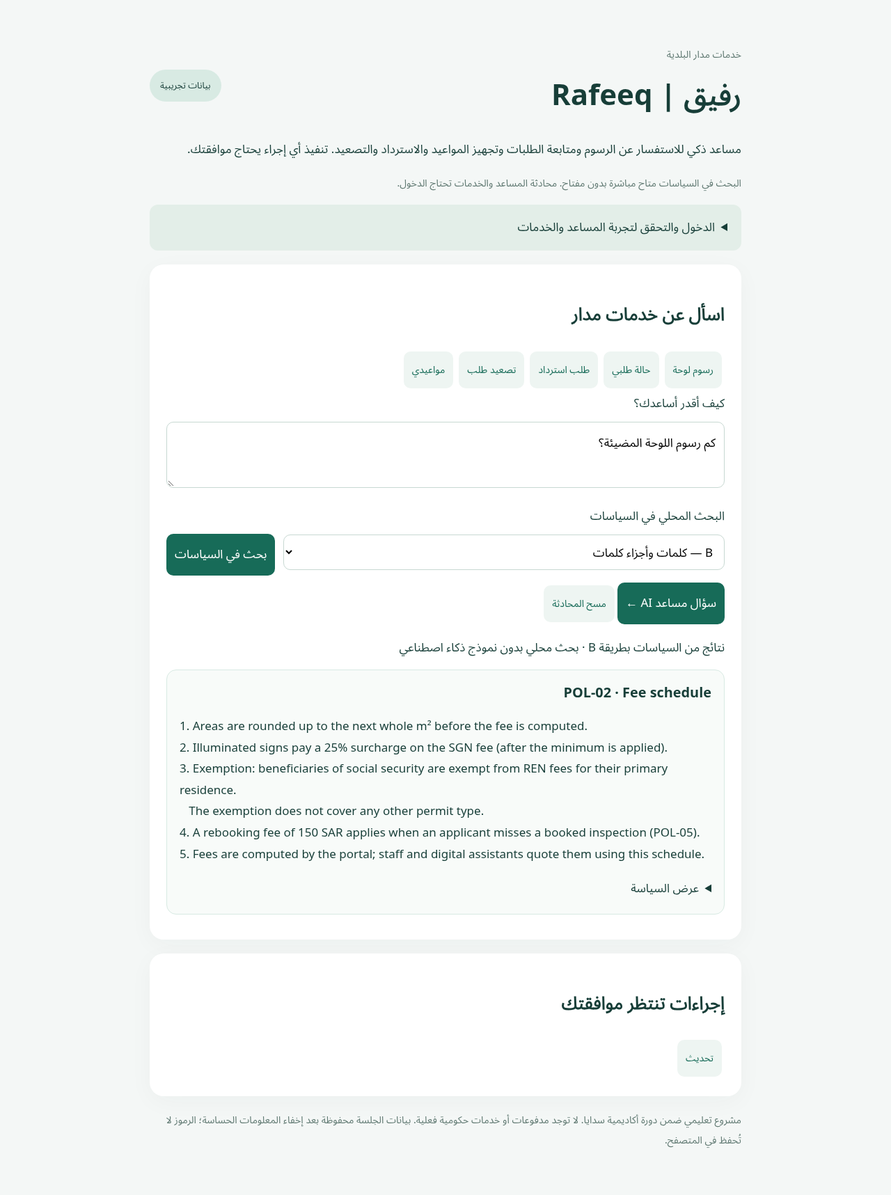
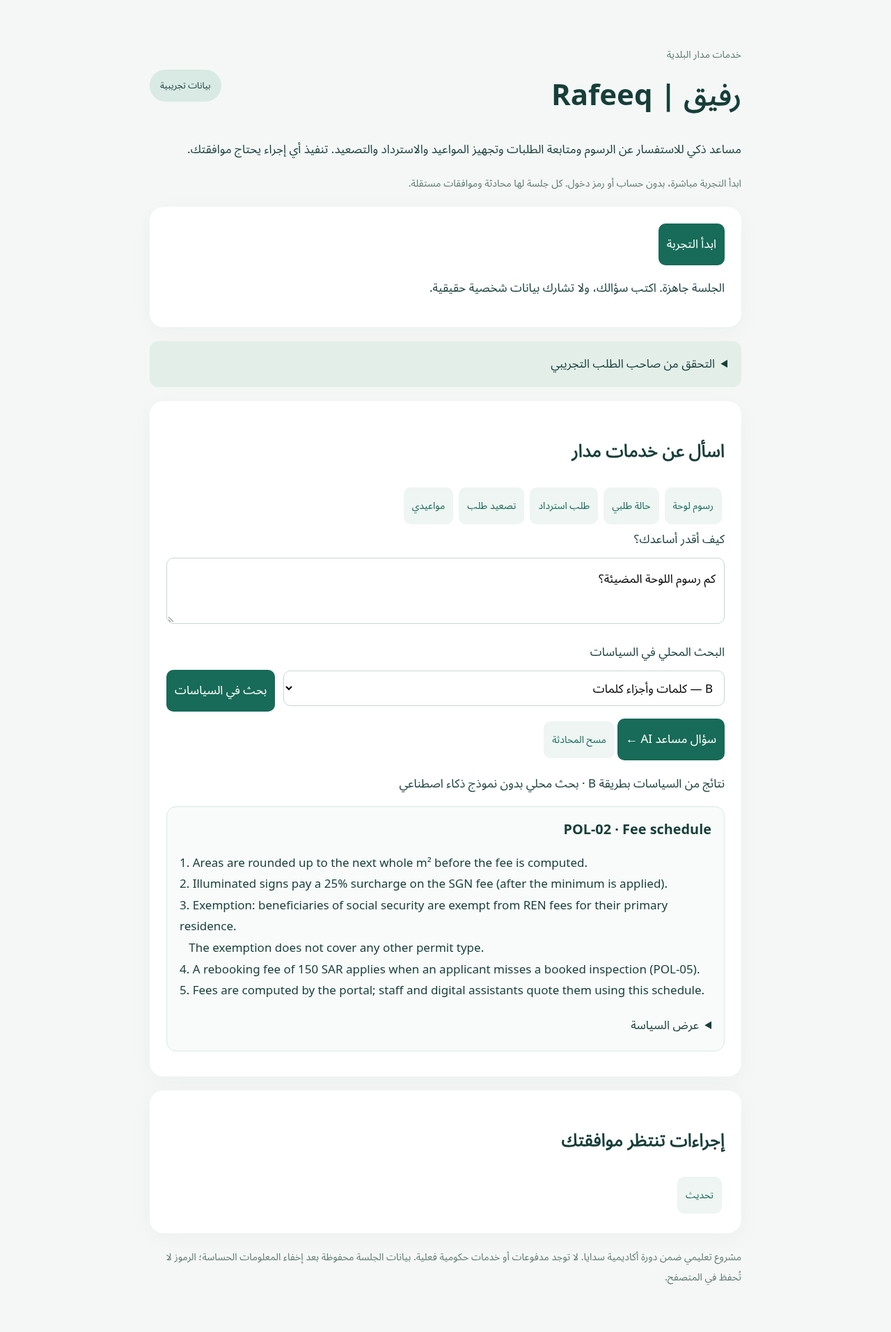
Open isolated no-password visitor sessions and refresh public demo documentation

diff --git a/rafeeq/index.html b/rafeeq/index.html
@@ -10,9 +10,9 @@ body{margin:0;background:#f4f7f6;color:#173e38;font:17px system-ui}main{max-widt
 <body><main>
 <header><div><small>خدمات مدار البلدية</small><h1>رفيق | Rafeeq</h1></div><span class="badge">بيانات تجريبية</span></header>
 <p>مساعد ذكي للاستفسار عن الرسوم ومتابعة الطلبات وتجهيز المواعيد والاسترداد والتصعيد. تنفيذ أي إجراء يحتاج موافقتك.</p>
-<p><small>البحث في السياسات متاح مباشرة بدون مفتاح. محادثة المساعد والخدمات تحتاج الدخول.</small></p>
-<details id="account" class="account"><summary>الدخول والتحقق لتجربة المساعد والخدمات</summary>
-<section class="card"><h2>الدخول</h2><form id="connect-form"><label for="token">رمز دخول الموقع</label><input id="token" type="password" autocomplete="off" required><button>بدء جلسة</button></form><p id="connection" class="notice" role="status">الرمز يوفّره صاحب الموقع. لا تدخل مفتاح OpenRouter هنا.</p></section>
+<p><small>ابدأ التجربة مباشرة، بدون حساب أو رمز دخول. كل جلسة لها محادثة وموافقات مستقلة.</small></p>
+<section class="card"><button id="start-demo">ابدأ التجربة</button><p id="connection" class="notice" role="status">ابدأ جلسة جديدة للمحادثة، أو ابحث في السياسات مباشرة.</p></section>
+<details id="account" class="account"><summary>التحقق من صاحب الطلب التجريبي</summary>
 <section class="card"><h2>التحقق من صاحب الطلب</h2><p>التحقق يتم في هذه الخانات فقط. لا تكتب معلومات الهوية أو الجوال في المحادثة.</p>
 <details><summary>بيانات التجربة الوهمية</summary><p>الطلب <code>MDR-1001</code>، آخر 4 أرقام <code>0001</code>، الجوال <code>0550001001</code>. نفس المستخدم يملك <code>MDR-1002</code> المرفوض و<code>MDR-1003</code> المسحوب قبل المراجعة. هذه أرقام وهمية وليست حسابات حقيقية.</p></details>
 <form id="verify-form" class="fields"><label class="wide">رقم الطلب<input id="application" value="MDR-1001" required maxlength="40"></label><label>آخر 4 أرقام من الهوية<input id="last4" type="password" inputmode="numeric" autocomplete="off" required minlength="4" maxlength="4"></label><label>الجوال المسجل<input id="mobile" type="password" inputmode="tel" autocomplete="off" required maxlength="24"></label><button class="wide">تحقق</button></form><p id="verification" role="status">الأسئلة العامة متاحة دون تحقق. بيانات الطلبات والإجراءات تحتاج تحققًا.</p></section>
@@ -23,12 +23,12 @@ body{margin:0;background:#f4f7f6;color:#173e38;font:17px system-ui}main{max-widt
 </main>
 <script>
 const $=id=>document.getElementById(id);
-let sessionToken='';
+let sessionToken='', applicantVerified=false;
 function add(label,text){const d=document.createElement('div');d.className='msg';d.textContent=label+'\n'+text;$('messages').append(d);d.scrollIntoView({block:'nearest'});}
-async function api(path,options={}){const r=await fetch(path,{...options,headers:{'Content-Type':'application/json','Authorization':'Bearer '+$('token').value,'X-Rafeeq-Session':sessionToken}});const data=await r.json();if(!r.ok)throw Error(typeof data.detail==='string'?data.detail:'تعذر تنفيذ الطلب');return data;}
+async function api(path,options={}){const r=await fetch(path,{...options,headers:{'Content-Type':'application/json','X-Rafeeq-Session':sessionToken}});const data=await r.json();if(!r.ok)throw Error(typeof data.detail==='string'?data.detail:'تعذر تنفيذ الطلب');return data;}
 const kinds={inspection:'حجز فحص',reschedule:'تغيير موعد',refund:'طلب استرداد',escalation:'تصعيد الطلب'};
 function details(p){const d=p.details||{};let text=(kinds[p.kind]||p.kind)+' · '+p.application_id;if(d.day)text+='\nالتاريخ: '+d.day;if(d.old_day)text+='\nالتاريخ السابق: '+d.old_day;if(d.amount_sar!==undefined)text+='\nالمبلغ: '+d.amount_sar+' ريال'+(d.finance_required?' — يحتاج مراجعة موظف مالي':'');if(d.overdue_working_days)text+='\nأيام العمل المتأخرة: '+d.overdue_working_days;return text;}
-async function refresh(){try{const items=await api('/api/proposals');$('pending').replaceChildren();if(!items.length)$('pending').textContent='لا توجد إجراءات معلقة.';for(const p of items){const d=document.createElement('div');d.className='proposal';const t=document.createElement('p');t.style.whiteSpace='pre-wrap';t.textContent=details(p);d.append(t);for(const [text,approve] of [['تأكيد الإجراء',true],['رفض',false]]){const b=document.createElement('button');b.textContent=text;if(!approve)b.className='reject';b.onclick=async()=>{d.querySelectorAll('button').forEach(x=>x.disabled=true);try{const r=await api('/api/proposals/'+encodeURIComponent(p.proposal_id)+'/decision',{method:'POST',body:JSON.stringify({approve})});let message='تم رفض الإجراء.';if(approve){if(r.kind==='refund')message=r.refund_status==='pending_finance'?'تم تسجيل طلب الاسترداد بانتظار الموظف المالي. لم يُدفع مبلغ.':'تم تسجيل طلب الاسترداد. هذه تجربة دون مدفوعات فعلية.';else if(r.kind==='escalation')message='تم تسجيل التصعيد بانتظار المشرف.';else message=r.rescheduled?'تم تغيير الموعد بعد موافقتك.':'تم الحجز بعد موافقتك.';}add('نتيجة الإجراء',message);await refresh();}catch(e){add('تنبيه',e.message);d.querySelectorAll('button').forEach(x=>x.disabled=false);}};d.append(b);}$('pending').append(d);}}catch(e){$('pending').textContent=e.message;}}
+async function refresh(){if(!sessionToken||!applicantVerified){$('pending').textContent='للإجراءات، تحقق من بيانات الطلب التجريبي أولًا.';return;}try{const items=await api('/api/proposals');$('pending').replaceChildren();if(!items.length)$('pending').textContent='لا توجد إجراءات معلقة.';for(const p of items){const d=document.createElement('div');d.className='proposal';const t=document.createElement('p');t.style.whiteSpace='pre-wrap';t.textContent=details(p);d.append(t);for(const [text,approve] of [['تأكيد الإجراء',true],['رفض',false]]){const b=document.createElement('button');b.textContent=text;if(!approve)b.className='reject';b.onclick=async()=>{d.querySelectorAll('button').forEach(x=>x.disabled=true);try{const r=await api('/api/proposals/'+encodeURIComponent(p.proposal_id)+'/decision',{method:'POST',body:JSON.stringify({approve})});let message='تم رفض الإجراء.';if(approve){if(r.kind==='refund')message=r.refund_status==='pending_finance'?'تم تسجيل طلب الاسترداد بانتظار الموظف المالي. لم يُدفع مبلغ.':'تم تسجيل طلب الاسترداد. هذه تجربة دون مدفوعات فعلية.';else if(r.kind==='escalation')message='تم تسجيل التصعيد بانتظار المشرف.';else message=r.rescheduled?'تم تغيير الموعد بعد موافقتك.':'تم الحجز بعد موافقتك.';}add('نتيجة الإجراء',message);await refresh();}catch(e){add('تنبيه',e.message);d.querySelectorAll('button').forEach(x=>x.disabled=false);}};d.append(b);}$('pending').append(d);}}catch(e){$('pending').textContent=e.message;}}
 $('search').onclick=async()=>{
  const query=$('question').value.trim();if(!query||query.length>1000){$('chat-status').textContent='اكتب سؤالًا من 1 إلى 1000 حرف.';return;}
  $('search').disabled=true;$('chat-status').textContent='جاري البحث محليًا…';
@@ -37,9 +37,10 @@ $('search').onclick=async()=>{
   $('chat-status').textContent=r.documents.length?'نتائج من السياسات بطريقة '+r.mode+' · بحث محلي بدون نموذج ذكاء اصطناعي':'لم نجد سياسة مطابقة للسؤال.';
  }catch(e){$('chat-status').textContent=e.message;}finally{$('search').disabled=false;}
 };
-$('connect-form').onsubmit=async e=>{e.preventDefault();try{sessionToken='';const r=await api('/api/sessions',{method:'POST'});sessionToken=r.session_token;$('messages').replaceChildren();$('pending').replaceChildren();$('verification').textContent='الجلسة الجديدة تحتاج تحققًا قبل فتح الطلبات.';$('connection').textContent='تم الاتصال. الذاكرة منفصلة لكل جلسة.';}catch(e){$('connection').textContent=e.message;}};
-$('verify-form').onsubmit=async e=>{e.preventDefault();const b=e.target.querySelector('button');b.disabled=true;try{await api('/api/session/verify',{method:'POST',body:JSON.stringify({application_id:$('application').value,last4:$('last4').value,mobile:$('mobile').value})});$('verification').textContent='تم التحقق. الصلاحية 30 دقيقة.';await refresh();}catch(e){$('verification').textContent=e.message;}finally{$('last4').value='';$('mobile').value='';b.disabled=false;}};
-$('chat-form').onsubmit=async e=>{e.preventDefault();const message=$('question').value.trim();if(!message)return;$('send').disabled=true;$('chat-status').textContent='رفيق يراجع طلبك…';$('question').value='';try{const r=await api('/api/chat',{method:'POST',body:JSON.stringify({message})});$('messages').replaceChildren();const history=await api('/api/history');for(const h of history)add(h.role==='user'?'أنت':'رفيق',h.content);if(!history.length&&r.stopped==='complete')add('رفيق',r.answer);if(r.stopped!=='complete')add('تنبيه',r.answer);$('chat-status').textContent=r.stopped==='complete'?'':'توقف الطلب: '+r.stopped;await refresh();}catch(e){$('chat-status').textContent=e.message;if(!sessionToken)$('account').open=true;}finally{$('send').disabled=false;}};
-$('clear').onclick=async()=>{try{await api('/api/history',{method:'DELETE'});$('messages').replaceChildren();$('chat-status').textContent='تم مسح المحادثة.';}catch(e){$('chat-status').textContent=e.message;}};
+async function startDemo(){const r=await api('/api/visitors',{method:'POST'});sessionToken=r.session_token;applicantVerified=false;$('messages').replaceChildren();$('pending').replaceChildren();$('last4').value='';$('mobile').value='';$('verification').textContent='للإجراءات، تحقق من بيانات الطلب التجريبي.';$('connection').textContent='الجلسة جاهزة. اكتب سؤالك، ولا تشارك بيانات شخصية حقيقية.';}
+$('start-demo').onclick=async()=>{const b=$('start-demo');b.disabled=true;try{await startDemo();}catch(e){$('connection').textContent=e.message;}finally{b.disabled=false;}};
+$('verify-form').onsubmit=async e=>{e.preventDefault();const b=e.target.querySelector('button');b.disabled=true;try{const credentials={application_id:$('application').value,last4:$('last4').value,mobile:$('mobile').value};if(!sessionToken)await startDemo();await api('/api/session/verify',{method:'POST',body:JSON.stringify(credentials)});applicantVerified=true;$('verification').textContent='تم التحقق. الصلاحية 30 دقيقة.';await refresh();}catch(e){$('verification').textContent=e.message;}finally{$('last4').value='';$('mobile').value='';b.disabled=false;}};
+$('chat-form').onsubmit=async e=>{e.preventDefault();const message=$('question').value.trim();if(!message)return;$('send').disabled=true;$('chat-status').textContent='رفيق يراجع طلبك…';$('question').value='';try{if(!sessionToken)await startDemo();const requestSession=sessionToken;const r=await api('/api/chat',{method:'POST',body:JSON.stringify({message})});if(requestSession!==sessionToken)return;$('messages').replaceChildren();const history=await api('/api/history');for(const h of history)add(h.role==='user'?'أنت':'رفيق',h.content);if(!history.length&&r.stopped==='complete')add('رفيق',r.answer);if(r.stopped!=='complete')add('تنبيه',r.answer);$('chat-status').textContent=r.stopped==='complete'?'':'توقف الطلب: '+r.stopped;await refresh();}catch(e){$('chat-status').textContent=e.message;}finally{$('send').disabled=false;}};
+$('clear').onclick=async()=>{if(!sessionToken){$('messages').replaceChildren();return;}try{await api('/api/history',{method:'DELETE'});$('messages').replaceChildren();$('chat-status').textContent='تم مسح المحادثة.';}catch(e){$('chat-status').textContent=e.message;}};
 $('refresh').onclick=refresh;document.querySelectorAll('[data-q]').forEach(b=>b.onclick=()=>{$('question').value=b.dataset.q;$('question').focus();});
 </script></body></html>

diff --git a/tests/test_visitor_access.py b/tests/test_visitor_access.py
@@ -1,0 +1,55 @@
+from fastapi.testclient import TestClient
+from rafeeq.store import Store, DEMO_IDENTITIES
+
+
+def test_guest_can_start_without_password_but_cannot_reuse_a_private_session(tmp_path,monkeypatch):
+    from rafeeq import api
+    monkeypatch.setenv('RAFEEQ_ACCESS_TOKEN','owner-only-fixture')
+    monkeypatch.setattr(api,'store',Store(tmp_path/'db'))
+    c=TestClient(api.app)
+    guest=c.post('/api/visitors')
+    assert guest.status_code==200
+    token=guest.json()['session_token'];h={'X-Rafeeq-Session':token}
+    assert c.get('/api/history',headers=h).json()==[]
+    assert c.get('/api/proposals',headers=h).status_code==403
+    private=c.post('/api/sessions',headers={'Authorization':'Bearer owner-only-fixture'}).json()['session_token']
+    assert c.get('/api/history',headers={'X-Rafeeq-Session':private}).status_code==401
+    assert c.get('/health').json()['guest_access'] is True
+
+
+def test_guest_history_and_approvals_are_isolated(tmp_path,monkeypatch):
+    from rafeeq import api
+    monkeypatch.setattr(api,'store',Store(tmp_path/'db'))
+    c=TestClient(api.app)
+    a=c.post('/api/visitors').json()['session_token'];b=c.post('/api/visitors').json()['session_token']
+    ha={'X-Rafeeq-Session':a};hb={'X-Rafeeq-Session':b}
+    i=DEMO_IDENTITIES['demo-user']
+    for h in (ha,hb):
+        assert c.post('/api/session/verify',headers=h,json={k:i[k] for k in ('application_id','last4','mobile')}).status_code==200
+    api.store.remember(a,'My question','My answer')
+    assert c.get('/api/history',headers=hb).json()==[]
+    p=api.store.refund('MDR-1002','demo-user',a)
+    assert c.get('/api/proposals',headers=hb).json()==[]
+    endpoint=f"/api/proposals/{p['proposal_id']}/decision"
+    assert c.post(endpoint,headers=hb,json={'approve':True}).status_code==409
+    assert c.post(endpoint,headers=ha,json={'approve':True}).json()['amount_sar']==650
+
+
+def test_guest_flow_does_not_require_private_access_configuration(monkeypatch):
+    from rafeeq import api
+    monkeypatch.delenv('RAFEEQ_ACCESS_TOKEN',raising=False)
+    c=TestClient(api.app)
+    assert c.post('/api/visitors').status_code==200
+    assert c.post('/api/sessions').status_code==503
+    h=c.get('/health').json()
+    assert h['guest_access'] is True and h['access_configured'] is False
+
+
+def test_visitor_page_has_no_site_password_field():
+    from rafeeq import api
+    text=TestClient(api.app).get('/').text
+    assert 'id="start-demo"' in text
+    assert 'id="token"' not in text
+    assert 'id="connect-form"' not in text
+    assert 'RAFEEQ-DEMO' not in text
+    assert 'id="verify-form"' in text

diff --git a/rafeeq/api.py b/rafeeq/api.py
@@ -30,16 +30,17 @@ async def invalid_request(request, exc):
 
 
 def auth(authorization: str = Header(default='')):
-    token = os.getenv('RAFEEQ_ACCESS_TOKEN', '')
-    if not token: raise HTTPException(503, 'Set RAFEEQ_ACCESS_TOKEN before using the service')
-    if not secrets.compare_digest(authorization, f'Bearer {token}'):
-        raise HTTPException(401, 'Invalid access token')
+    token = os.getenv('RAFEEQ_ACCESS_TOKEN','')
+    if not token: raise HTTPException(503,'Private API access has not been configured')
+    if not secrets.compare_digest(authorization.encode(),f'Bearer {token}'.encode()):
+        raise HTTPException(401,'Invalid access code')
 
 
-def session_token(x_rafeeq_session: str = Header(default=''), _=Depends(auth)):
-    if not x_rafeeq_session or len(x_rafeeq_session) > 100: raise HTTPException(401, 'Create a session first')
-    try: store.session(x_rafeeq_session)
-    except ValueError: raise HTTPException(401, 'Session expired or unavailable')
+def session_token(x_rafeeq_session: str = Header(default=''), authorization: str = Header(default='')):
+    if not x_rafeeq_session or len(x_rafeeq_session)>100: raise HTTPException(401,'Start a demo session first')
+    try: state = store.session(x_rafeeq_session)
+    except ValueError: raise HTTPException(401,'Session expired or unavailable')
+    if not state['public']: auth(authorization)
     return x_rafeeq_session
 
 
@@ -85,7 +86,7 @@ def health():
     except ValueError:
         provider, model, configured, valid = None, None, False, False
     return {'status':'ok','synthetic':True,'provider':provider,'model':model,'configuration_valid':valid,
-            'provider_configured':configured,'access_configured':bool(os.getenv('RAFEEQ_ACCESS_TOKEN'))}
+            'provider_configured':configured,'access_configured':bool(os.getenv('RAFEEQ_ACCESS_TOKEN')),'guest_access':True}
 
 
 @app.post('/api/policies/search')
@@ -93,6 +94,11 @@ def search_public_policies(body: PolicySearch):
     from rafeeq.retrieval import policy_search
     try: return {'mode':body.mode,'local':True,'documents':policy_search(body.query,body.mode)}
     except ValueError as exc: raise HTTPException(422,str(exc))
+
+
+@app.post('/api/visitors')
+def create_visitor_session():
+    return {'session_token':store.create_session(public=True)}
 
 
 @app.post('/api/sessions')

diff --git a/rafeeq/store.py b/rafeeq/store.py
@@ -45,6 +45,7 @@ class Store:
                                  ('submitted', "TEXT DEFAULT '2026-09-01'"), ('duplicate_paid', 'REAL DEFAULT 0')],
                 'proposals': [('kind', "TEXT DEFAULT 'inspection'"), ('payload', "TEXT DEFAULT '{}'"), ('session', 'TEXT')],
                 'inspections': [('version', 'INTEGER DEFAULT 0')],
+                'sessions': [('public', 'INTEGER DEFAULT 0')],
             }
             for table, columns in additions.items():
                 existing = {r[1] for r in db.execute(f'PRAGMA table_info({table})')}
@@ -78,19 +79,19 @@ class Store:
     def _session_key(token):
         return hashlib.sha256(token.encode()).hexdigest()
 
-    def create_session(self) -> str:
+    def create_session(self, public=False) -> str:
         token = secrets.token_urlsafe(32)
         with self.connect() as db:
-            db.execute('INSERT INTO sessions(id,expires) VALUES (?,?)', (self._session_key(token), time.time() + 8 * 3600))
+            db.execute('INSERT INTO sessions(id,expires,public) VALUES (?,?,?)', (self._session_key(token), time.time() + 8 * 3600, int(public)))
         return token
 
     def session(self, token: str, require_verified=False) -> dict:
         with self.connect() as db:
-            row = db.execute('SELECT owner,failed,verified_until,expires FROM sessions WHERE id=?', (self._session_key(token),)).fetchone()
+            row = db.execute('SELECT owner,failed,verified_until,expires,public FROM sessions WHERE id=?', (self._session_key(token),)).fetchone()
         if not row or row[3] <= time.time(): raise ValueError('Session expired or unavailable')
         owner = row[0] if row[2] > time.time() and row[1] < 3 else None
         if require_verified and not owner: raise ValueError('Verify the applicant in the verification form first')
-        return {'owner': owner, 'verified': bool(owner), 'locked': row[1] >= 3, 'failed_attempts': row[1], 'reverification_required': bool(row[0] and not owner)}
+        return {'owner': owner, 'verified': bool(owner), 'locked': row[1] >= 3, 'failed_attempts': row[1], 'reverification_required': bool(row[0] and not owner), 'public': bool(row[4])}
 
     def verify(self, token: str, application_id: str, last4: str, mobile: str) -> dict:
         self.session(token)

diff --git a/docs/TECHNICAL.md b/docs/TECHNICAL.md
@@ -11,8 +11,8 @@ uv sync --frozen
 cp -n .env.example .env
 ```
 
-Preserve an existing `.env`. Set `OPENROUTER_API_KEY` and a long, randomly generated `RAFEEQ_ACCESS_TOKEN` in that file; never commit it.
-The API key authenticates requests to the inference provider. The access token protects the local application's chat and approval endpoints.
+Preserve an existing `.env`. Set `OPENROUTER_API_KEY` in that file. `RAFEEQ_ACCESS_TOKEN` is optional private API access and is not needed by browser visitors. Never commit real keys or access codes.
+The API key authenticates requests to the inference provider. The private access token protects private-session API calls. Public visitors receive an independent random session token without a password.
 
 ```bash
 uv run --frozen uvicorn rafeeq.api:app --host 127.0.0.1 --port 8000
@@ -34,7 +34,7 @@ uv run --frozen uvicorn rafeeq.api:app --host 127.0.0.1 --port 8000
 
 The idempotent setup script installs locked dependencies and creates `.env` with a generated access token only if the file is absent. Supply the inference key through environment secrets. Installation and startup instructions are saved in the environment draft; saving instructions does not execute them or publish the environment. Running processes must be restarted in a new task.
 
-`GET /health` reports service availability and credential presence, not provider authorization. A representative functional request should produce 750 SAR with `POL-02` for an illuminated 3 m² sign. Protected requests use `Authorization: Bearer <local-access-token>`.
+`GET /health` reports service availability and credential presence, not provider authorization. A representative functional request should produce 750 SAR with `POL-02` for an illuminated 3 m² sign. Session-scoped requests send `X-Rafeeq-Session`. Private-session requests additionally use `Authorization: Bearer <local-access-token>`.
 
 ## Engineering decisions
 
@@ -84,14 +84,14 @@ Missing credentials create no result files. Exit codes are 0 for a complete pass
 
 ## Data and deployment limits
 
-All supplied records are synthetic. Questions and relevant tool results are transmitted to OpenRouter and its serving provider. The demo includes two synthetic applicant identities. A shared site access code starts isolated sessions; a separate verification endpoint checks the application, last four ID digits and registered mobile. Verification expires after 30 minutes; three failed attempts lock the session. Session tokens are hashed in storage and identity fields use salted PBKDF2 hashes. This is not a production identity system. Runtime SQLite files and `.env` are excluded from Git. The audit table stores proposal/decision identifiers without conversation transcripts or credentials.
+All supplied records are synthetic. Questions and relevant tool results are transmitted to OpenRouter and its serving provider. The demo includes two synthetic applicant identities. A public start button creates isolated visitor sessions; a separate verification endpoint checks the application, last four ID digits and registered mobile. Verification expires after 30 minutes; three failed attempts lock the session. Session tokens are hashed in storage and identity fields use salted PBKDF2 hashes. This is not a production identity system. Runtime SQLite files and `.env` are excluded from Git. The audit table stores proposal/decision identifiers without conversation transcripts or credentials.
 
 Production deployment requires independent user authentication, data-protection controls, provider suitability review, rate limiting and real scheduling integration.
 
 
 ## Applicant sessions and actions
 
-`POST /api/sessions` requires the site access code and returns an opaque session token. Subsequent calls send it in `X-Rafeeq-Session`. `POST /api/session/verify` accepts application ID, `last4` and mobile outside the model. Private tool calls recheck verification at execution time. A session cannot switch to a different applicant identity.
+`POST /api/visitors` creates an anonymous visitor session without a code. `POST /api/sessions` remains a separate private API requiring the private access code. Both return opaque session tokens; subsequent calls send them in `X-Rafeeq-Session`. A private session cannot be used without its additional access code, while visitor sessions use their own token capability. There is no application-level visitor turn/day quota. `POST /api/session/verify` accepts application ID, `last4` and mobile outside the model. Private tool calls recheck verification at execution time. A session cannot switch to a different applicant identity.
 
 `GET /api/history` returns only the current session's redacted turns; `DELETE /api/history` clears them. Expired verification hides earlier private history until reverification. Common Saudi mobile/identity patterns, email, IBAN and credential strings are masked before model input, storage and traces. Pattern matching is a minimisation control, not a complete detector for all sensitive information.
 

diff --git a/README.md b/README.md
@@ -8,6 +8,27 @@ Built for [Advanced Agentic AI Systems Engineering - SDAIA Academy](https://gith
 - **Team:** Individual
 - **Data:** Synthetic Madar records only
 
+![Rafeeq showing real local policy-search results](docs/images/policy-search.png)
+
+## Getting started
+
+[Open Rafeeq](https://rafeeq-demo-pcbf.onrender.com/) and click **Start demo**. No account, access code or API key is required from visitors.
+
+1. Start a new demo session and ask a question, such as “What is the fee for a 3 m² illuminated sign?”
+2. For a direct policy lookup, use **Search policies**. This runs locally without an AI-provider request.
+3. To check an application or prepare an action, complete the verification form using the synthetic details below. Do not enter real personal information.
+4. Review any pending action and choose **Approve** or **Reject**. Preparing a request does not execute it.
+
+| Demo verification field | Value |
+|---|---|
+| Application | `MDR-1001` |
+| Last four ID digits | `0001` |
+| Mobile | `0550001001` |
+
+Each visitor has a separate conversation and pending approvals. Sample application records are shared fictional data. A visitor session does not provide access to the owner's hosting account, private API sessions or provider key.
+
+[Visitor guide and example requests](docs/USER_GUIDE.md)
+
 ## Features
 
 - Answers policy questions and calculates fees with a source reference.
@@ -31,18 +52,6 @@ Built for [Advanced Agentic AI Systems Engineering - SDAIA Academy](https://gith
 | `propose_escalation` | Prepares a request about an overdue application | No |
 
 A prepared request waits for the user's approval. Refunds above **1,000 SAR** also wait for a finance officer. All actions stay inside the demo; no money is paid and no email is sent.
-
-## Getting started
-
-The app requires Python 3.11+ and [uv](https://docs.astral.sh/uv/). **Public policy search works without an API key.** AI chat requires an OpenRouter key and a site access code. The [setup guide](docs/TECHNICAL.md#local-setup) covers both modes.
-
-After setup, start the app with:
-
-```bash
-uv run --frozen uvicorn rafeeq.api:app --host 127.0.0.1 --port 8000
-```
-
-The policy-search button runs locally and supports search modes A and B. To use AI chat, enter the site access code. Application details and actions also require the separate verification form. [Demo account and public hosting instructions](docs/DEPLOYMENT.md).
 
 ## Local search evaluation
 
@@ -72,13 +81,7 @@ The command returns exit code 1 when a retrieval case mismatches, while still sa
 
 **Full-assistant evaluation is separate:** the 25-task prompt A/B suite checks generated answers, calculations, identity rules, pending actions and security. It remains at **0/25 executed per prompt setting**, because the OpenRouter key is unavailable. The local search scores do not satisfy that end-to-end execution requirement. [Full-assistant evaluation status](results/README.md).
 
-**80 automated application tests pass**, including real MCP integration, private-session boundaries, approvals and local-search access. These are not live model scores.
-
-## App preview
-
-A real browser capture after a local policy search. No AI response was mocked or generated for this screenshot.
-
-![Rafeeq showing real local policy-search results](docs/images/policy-search.png)
+**84 automated application tests pass**, including real MCP integration, private-session boundaries, approvals and local-search access. These are not live model scores.
 
 ## Security: the risk and the protection
 
@@ -103,6 +106,6 @@ This is a learning project with made-up identities, local action records and no 
 
 ## Acknowledgements
 
-Thanks to SDAIA Academy and the course instructor for the practical examples connecting AI assistants, tools, evaluation and security.
+Thanks to SDAIA Academy and [Dr. Modar M. Alfadly](https://github.com/xmodar) for the practical examples connecting AI assistants, tools, evaluation and security.
 
-[Course requirements](https://github.com/SDAIAAcademy/agentic-ai/tree/main/labs/capstone) · [Synthetic data sources](data/ATTRIBUTION.md) · [Tests](tests/)
+[Course requirements](https://github.com/SDAIAAcademy/agentic-ai/tree/main/labs/capstone) · [Synthetic data sources](data/ATTRIBUTION.md) · [Tests](tests/) · [Local setup](docs/TECHNICAL.md#local-setup)

diff --git a/docs/DEPLOYMENT.md b/docs/DEPLOYMENT.md
@@ -2,7 +2,7 @@
 
 [Project overview](../README.md)
 
-`render.yaml` prepares this repository for a free Render web service. A hosting account is required. AI chat needs an inference key; public local policy search does not. No public service has been deployed from this workspace.
+`render.yaml` prepares this repository for a free Render web service. A hosting account is required. AI chat needs an inference key; public local policy search does not. Public demo URL: https://rafeeq-demo-pcbf.onrender.com/. Visitors use [the visitor guide](USER_GUIDE.md); the setup steps below are for hosting the service.
 
 ## Render setup
 
@@ -12,12 +12,14 @@
 4. Review the selected plan and deploy. The included configuration selects the free plan, without paid persistent storage.
 5. When the service is live, use the HTTPS address displayed by Render. Check `/health`, then test a real chat request before sharing it.
 
-A tester needs the site address and the **site access code** (`RAFEEQ_ACCESS_TOKEN`). The OpenRouter API key stays on Render and is never shared with testers.
+Visitors click **Start demo** and do not need a code, account or API key. Anonymous sessions are created by `POST /api/visitors`. The optional `RAFEEQ_ACCESS_TOKEN` remains private and protects the separate private-session API. Keep it, the OpenRouter key and hosting-account credentials out of visitor instructions. No additional per-visitor or daily quotas are imposed by this application; the inference provider's own availability and limits still apply.
+
+Visitor-facing instructions: [USER_GUIDE.md](USER_GUIDE.md).
 
 ## Tester flow
 
-1. Open the service and enter the site access code to start an isolated session.
-2. The public policy-search button works without an access code or inference key. AI chat requires the site access code and a configured provider key; public questions do not require applicant verification.
+1. Open the service and click **Start demo** to start an isolated visitor session.
+2. The public policy-search button works without an access code or inference key. AI chat uses the provider key configured on the server; public questions do not require applicant verification.
 3. For application actions, use the separate verification form. The intentionally public synthetic applicant is:
 
 | Field | Synthetic value |
@@ -36,7 +38,7 @@ Before approving an action, review its application, date or calculated amount. L
 
 - Free Render storage is temporary. `/tmp/rafeeq-demo.sqlite` can disappear after a restart or redeploy; sessions, actions and history can reset. It is unsuitable for real records.
 - Free services can sleep when inactive. The first request may take longer.
-- The shared access code is an invitation gate for a synthetic demo, not separate production user accounts. Verification lockout is per session.
+- Visitors use anonymous session tokens, not production user accounts. Verification lockout is per session. Private-session tokens still require the private API access code.
 - Set an appropriate spending limit on the provider account. Local spending reservations are estimates, and each chat turn can make several inference requests.
 - Only public/synthetic information belongs in this demo. Prompts and selected tool results reach the external provider.
 

diff --git a/docs/USER_GUIDE.md b/docs/USER_GUIDE.md
@@ -1,0 +1,48 @@
+# Try Rafeeq
+
+[Open the demo](https://rafeeq-demo-pcbf.onrender.com/) · [Project overview](../README.md)
+
+Rafeeq is an AI assistant for a fictional municipality. All example applications and identity details are made up.
+
+## Search without signing in
+
+Type a policy question and select **Search policies**. This searches the policy documents directly without an AI-provider request. The A/B selector changes the local search method.
+
+## Start an AI conversation
+
+Click **Start demo**. A new visitor session opens without an account, password or access code. It does not give access to the owner's private API sessions, hosting account or OpenRouter key.
+
+Ask “What is the fee for a 3 m² illuminated sign?” The expected amount is 750 SAR with source POL-02. Follow-up questions use the current session's conversation.
+
+## Try an application request
+
+Use the separate verification form:
+
+| Field | Synthetic value |
+|---|---|
+| Application | `MDR-1001` |
+| Last four ID digits | `0001` |
+| Registered mobile | `0550001001` |
+
+The same fictional applicant owns these applications:
+
+- `MDR-1001`: under review; suitable for checking status, inspection proposals and overdue escalation.
+- `MDR-1002`: rejected; a refund request should calculate 650 SAR.
+- `MDR-1003`: withdrawn before review; a 1,280 SAR refund request must wait for finance review after user approval.
+
+Example requests:
+
+- “Check application MDR-1001.”
+- “Prepare an inspection for MDR-1001 on a future Sunday–Thursday date.”
+- “Show my inspection dates, then prepare a change to another working date.”
+- “Prepare a refund request for MDR-1002.”
+
+A proposed action appears in the approval section. Review the application, date and amount, then approve or reject it. The demo records approved actions locally; it never pays money or emails anyone.
+
+## Sessions and shared sample data
+
+Conversations and pending approvals belong to the current session. Other visitors do not receive the session token. A new tab or refreshed page may require a new session because credentials and session tokens are not saved in browser storage.
+
+The fictional application records are shared, so an earlier visitor may already have created an inspection or refund. A duplicate-action rejection is expected in that case. Free-hosting restarts can reset all demo data.
+
+No manager dashboard or personal owner account is exposed to visitors. Use only the synthetic verification details; never supply a real identity number, real phone number, hosting password or API key.

diff --git a/docs/SECURITY.md b/docs/SECURITY.md
@@ -37,7 +37,7 @@ These tests use temporary databases, synthetic records and controlled provider r
 
 The `injection`, `other-status` and `scope` cases are included in `tasks.jsonl`. Their live A/B outcomes are pending until a usable OpenRouter key is available. No undefended live control was run, so there is no measured before/after leak rate.
 
-This is a synthetic multi-session demo with two fixture applicant identities and a shared site access code. Production use requires independent accounts, storage protection, provider-processing review and operational controls. A successful handler test is evidence for that boundary, not a claim that the whole system is secure.
+This is a synthetic multi-session demo with two fixture applicant identities and anonymous visitor sessions. Production use requires independent accounts, storage protection, provider-processing review and operational controls. A successful handler test is evidence for that boundary, not a claim that the whole system is secure.
 
 
 ## Additional session and privacy coverage
@@ -47,3 +47,5 @@ This is a synthetic multi-session demo with two fixture applicant identities and
 Verification credentials are entered outside chat and stored as salted hashes. Conversation memory contains bounded redacted text, not raw verification fields or tool transcripts. Session-token hashes scope memory and action approvals. The shared code and public demo fixture credentials are not production authentication. Redaction is pattern-based and cannot guarantee removal of every possible sensitive detail.
 
 The public `/api/policies/search` endpoint serves only the fixed synthetic policy corpus. Its mode and query length are validated. Tests verify that it creates no inference client and grants no access to private application/proposal endpoints.
+
+`tests/test_visitor_access.py` covers no-password visitor creation, protection of private sessions, cross-visitor memory/approval isolation and the absence of a site-password field. Sessions use unguessable tokens; there are no additional application-level usage quotas. Existing per-run execution budgets and verification rules remain enforced.

diff --git a/results/README.md b/results/README.md
@@ -1,7 +1,7 @@
 # Full-assistant evaluation status
 
 No live model evaluations have been completed: `OPENROUTER_API_KEY` was unavailable during validation.
-The 80 passing automated tests validate application behavior and integration controls, not model answer quality.
+The 84 passing automated tests validate application behavior and integration controls, not model answer quality.
 
 | Configuration | Planned tasks | Completed live tasks | Pass rate |
 |---|---:|---:|---|
